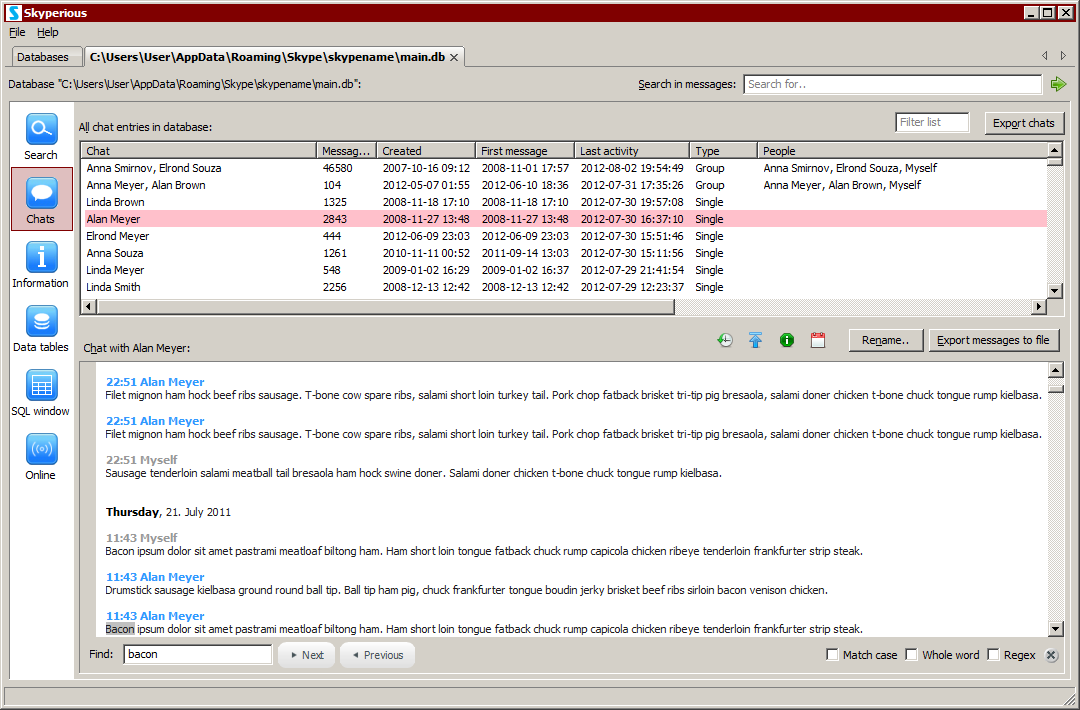
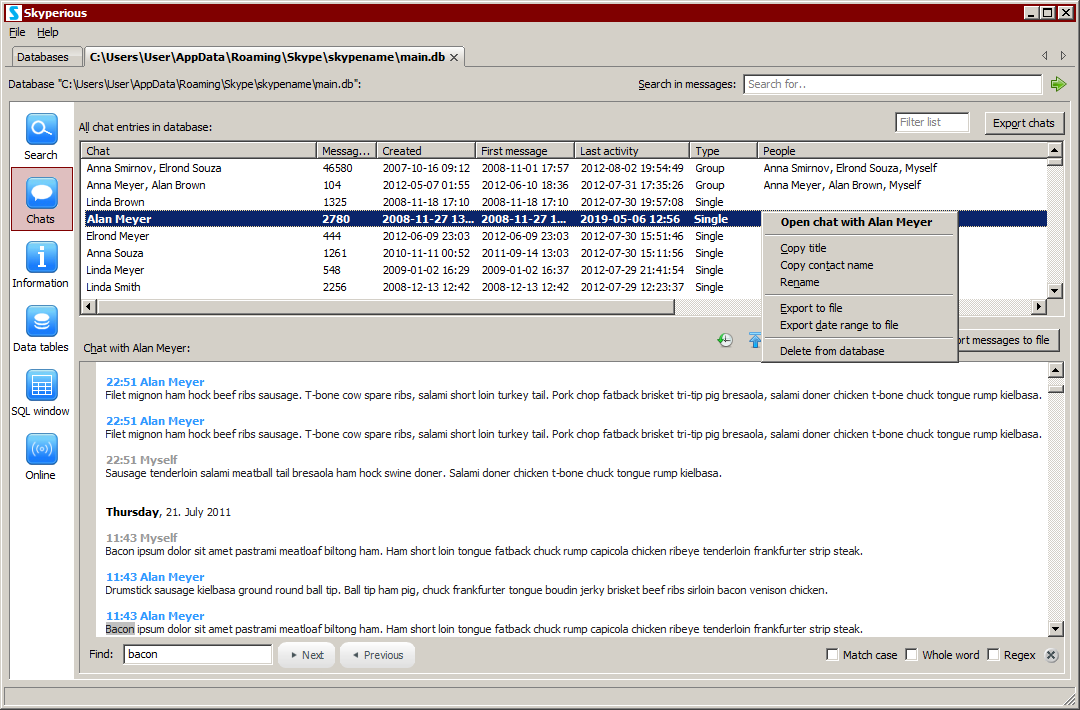
Updated texts and links and screenshots to v4.5.

Changed region(s): [[0.0611, 0.2789, 0.9778, 0.5268]]

diff --git a/index.html b/index.html
@@ -45,9 +45,9 @@
           <a href="https://github.com/suurjaak/Skyperious">View the Project on GitHub <small>suurjaak/Skyperious</small></a>
         </p>
         <ul>
-          <li><a href="https://erki.lap.ee/downloads/Skyperious/skyperious_4.4_setup.exe">Download <strong>Setup</strong></a></li>
-          <li><a href="https://erki.lap.ee/downloads/Skyperious/skyperious_4.4_x64_setup.exe">Download <strong>64bit Setup</strong></a></li>
-          <li><a href="https://erki.lap.ee/downloads/Skyperious/skyperious_4.4-src.zip">Download <strong>Source</strong></a></li>
+          <li><a href="https://erki.lap.ee/downloads/Skyperious/skyperious_4.5_setup.exe">Download <strong>Setup</strong></a></li>
+          <li><a href="https://erki.lap.ee/downloads/Skyperious/skyperious_4.5_x64_setup.exe">Download <strong>64bit Setup</strong></a></li>
+          <li><a href="https://erki.lap.ee/downloads/Skyperious/skyperious_4.5-src.zip">Download <strong>Source</strong></a></li>
         </ul>
       </header>
 
@@ -133,7 +133,7 @@ Skyperious offers a number of options from the command line:
   search "query" FILE        search Skype databases for messages or data
   sync FILE                  download new messages from Skype online service
   create FILE [-u user]      create new Skype database, blank or from a Skype source
-  merge FILE1 FILE2          merge two or more Skype databases into a new database
+  merge FILE FILE ...        merge two or more Skype databases into a new database
   diff FILE1 FILE2           compare chat history in two Skype databases
   gui [FILE]                 launch Skyperious graphical program (default option)
 </pre>

diff --git a/changelog.html b/changelog.html
@@ -40,14 +40,24 @@
           <a href="https://github.com/suurjaak/Skyperious">View the Project on GitHub <small>suurjaak/Skyperious</small></a>
         </p>
         <ul>
-          <li><a href="https://erki.lap.ee/downloads/Skyperious/skyperious_4.4_setup.exe">Download <strong>Setup</strong></a></li>
-          <li><a href="https://erki.lap.ee/downloads/Skyperious/skyperious_4.4_x64_setup.exe">Download <strong>64bit Setup</strong></a></li>
-          <li><a href="https://erki.lap.ee/downloads/Skyperious/skyperious_4.4-src.zip">Download <strong>Source</strong></a></li>
+          <li><a href="https://erki.lap.ee/downloads/Skyperious/skyperious_4.5_setup.exe">Download <strong>Setup</strong></a></li>
+          <li><a href="https://erki.lap.ee/downloads/Skyperious/skyperious_4.5_x64_setup.exe">Download <strong>64bit Setup</strong></a></li>
+          <li><a href="https://erki.lap.ee/downloads/Skyperious/skyperious_4.5-src.zip">Download <strong>Source</strong></a></li>
         </ul>
       </header>
 
       <section>
         <h2>Changelog</h2>
+
+        <h4>v4.5, 2021-02-09:</h4>
+        <ul>
+          <li>added option to change Skype online account username</li>
+          <li>added option to delete chats from the database</li>
+          <li>improved detection of duplicate messages on merging (issue #93)</li>
+          <li>fixed new contacts not being inserted on merge (issue #93)</li>
+          <li>fixed inserting duplicate chats on command-line merge with 2+ databases (issue #93)</li>
+        </ul>
+        <br />
 
         <h4>v4.4, 2021-01-18:</h4>
         <ul>

diff --git a/help.html b/help.html
@@ -45,9 +45,9 @@
           <a href="https://github.com/suurjaak/Skyperious">View the Project on GitHub <small>suurjaak/Skyperious</small></a>
         </p>
         <ul>
-          <li><a href="https://erki.lap.ee/downloads/Skyperious/skyperious_4.4_setup.exe">Download <strong>Setup</strong></a></li>
-          <li><a href="https://erki.lap.ee/downloads/Skyperious/skyperious_4.4_x64_setup.exe">Download <strong>64bit Setup</strong></a></li>
-          <li><a href="https://erki.lap.ee/downloads/Skyperious/skyperious_4.4-src.zip">Download <strong>Source</strong></a></li>
+          <li><a href="https://erki.lap.ee/downloads/Skyperious/skyperious_4.5_setup.exe">Download <strong>Setup</strong></a></li>
+          <li><a href="https://erki.lap.ee/downloads/Skyperious/skyperious_4.5_x64_setup.exe">Download <strong>64bit Setup</strong></a></li>
+          <li><a href="https://erki.lap.ee/downloads/Skyperious/skyperious_4.5-src.zip">Download <strong>Source</strong></a></li>
         </ul>
       </header>
       <section>
@@ -404,8 +404,6 @@ automatically. Last database in the list will be used as base for comparison.
 positional arguments:
   FILE                  two or merge Skype databases to merge
                         (supports * wildcards)
-  FILE1       first Skype database
-  FILE2       second Skype database, or more
 
 optional arguments:
   -h, --help            show this help message and exit

diff --git a/downloads.html b/downloads.html
@@ -40,9 +40,9 @@
           <a href="https://github.com/suurjaak/Skyperious">View the Project on GitHub <small>suurjaak/Skyperious</small></a>
         </p>
         <ul>
-          <li><a href="https://erki.lap.ee/downloads/Skyperious/skyperious_4.4_setup.exe">Download <strong>Setup</strong></a></li>
-          <li><a href="https://erki.lap.ee/downloads/Skyperious/skyperious_4.4_x64_setup.exe">Download <strong>64bit Setup</strong></a></li>
-          <li><a href="https://erki.lap.ee/downloads/Skyperious/skyperious_4.4-src.zip">Download <strong>Source</strong></a></li>
+          <li><a href="https://erki.lap.ee/downloads/Skyperious/skyperious_4.5_setup.exe">Download <strong>Setup</strong></a></li>
+          <li><a href="https://erki.lap.ee/downloads/Skyperious/skyperious_4.5_x64_setup.exe">Download <strong>64bit Setup</strong></a></li>
+          <li><a href="https://erki.lap.ee/downloads/Skyperious/skyperious_4.5-src.zip">Download <strong>Source</strong></a></li>
         </ul>
       </header>
       <section>

diff --git a/faq.html b/faq.html
@@ -40,9 +40,9 @@
           <a href="https://github.com/suurjaak/Skyperious">View the Project on GitHub <small>suurjaak/Skyperious</small></a>
         </p>
         <ul>
-          <li><a href="https://erki.lap.ee/downloads/Skyperious/skyperious_4.4_setup.exe">Download <strong>Setup</strong></a></li>
-          <li><a href="https://erki.lap.ee/downloads/Skyperious/skyperious_4.4_x64_setup.exe">Download <strong>64bit Setup</strong></a></li>
-          <li><a href="https://erki.lap.ee/downloads/Skyperious/skyperious_4.4-src.zip">Download <strong>Source</strong></a></li>
+          <li><a href="https://erki.lap.ee/downloads/Skyperious/skyperious_4.5_setup.exe">Download <strong>Setup</strong></a></li>
+          <li><a href="https://erki.lap.ee/downloads/Skyperious/skyperious_4.5_x64_setup.exe">Download <strong>64bit Setup</strong></a></li>
+          <li><a href="https://erki.lap.ee/downloads/Skyperious/skyperious_4.5-src.zip">Download <strong>Source</strong></a></li>
         </ul>
       </header>
       <section>

diff --git a/install.html b/install.html
@@ -47,9 +47,9 @@
           <a href="https://github.com/suurjaak/Skyperious">View the Project on GitHub <small>suurjaak/Skyperious</small></a>
         </p>
         <ul>
-          <li><a href="https://erki.lap.ee/downloads/Skyperious/skyperious_4.4_setup.exe">Download <strong>Setup</strong></a></li>
-          <li><a href="https://erki.lap.ee/downloads/Skyperious/skyperious_4.4_x64_setup.exe">Download <strong>64bit Setup</strong></a></li>
-          <li><a href="https://erki.lap.ee/downloads/Skyperious/skyperious_4.4-src.zip">Download <strong>Source</strong></a></li>
+          <li><a href="https://erki.lap.ee/downloads/Skyperious/skyperious_4.5_setup.exe">Download <strong>Setup</strong></a></li>
+          <li><a href="https://erki.lap.ee/downloads/Skyperious/skyperious_4.5_x64_setup.exe">Download <strong>64bit Setup</strong></a></li>
+          <li><a href="https://erki.lap.ee/downloads/Skyperious/skyperious_4.5-src.zip">Download <strong>Source</strong></a></li>
         </ul>
       </header>
       <section>

diff --git a/screens.html b/screens.html
@@ -35,9 +35,9 @@
           <a href="https://github.com/suurjaak/Skyperious">View the Project on GitHub <small>suurjaak/Skyperious</small></a>
         </p>
         <ul>
-          <li><a href="https://erki.lap.ee/downloads/Skyperious/skyperious_4.4_setup.exe">Download <strong>Setup</strong></a></li>
-          <li><a href="https://erki.lap.ee/downloads/Skyperious/skyperious_4.4_x64_setup.exe">Download <strong>64bit Setup</strong></a></li>
-          <li><a href="https://erki.lap.ee/downloads/Skyperious/skyperious_4.4-src.zip">Download <strong>Source</strong></a></li>
+          <li><a href="https://erki.lap.ee/downloads/Skyperious/skyperious_4.5_setup.exe">Download <strong>Setup</strong></a></li>
+          <li><a href="https://erki.lap.ee/downloads/Skyperious/skyperious_4.5_x64_setup.exe">Download <strong>64bit Setup</strong></a></li>
+          <li><a href="https://erki.lap.ee/downloads/Skyperious/skyperious_4.5-src.zip">Download <strong>Source</strong></a></li>
         </ul>
       </header>
       <section>
